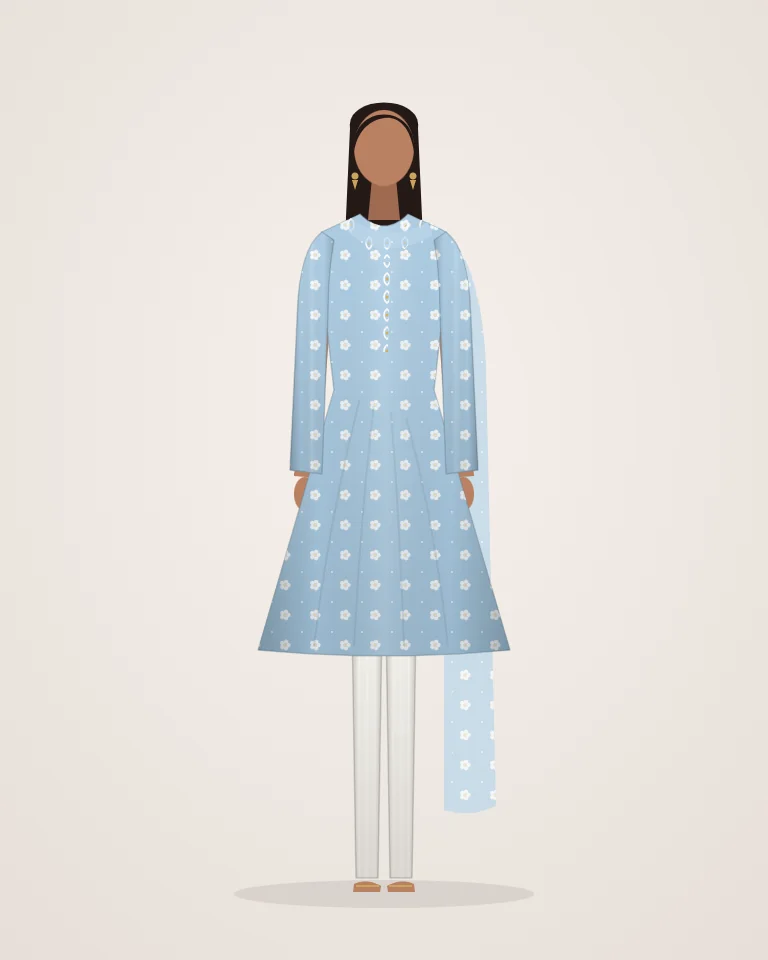
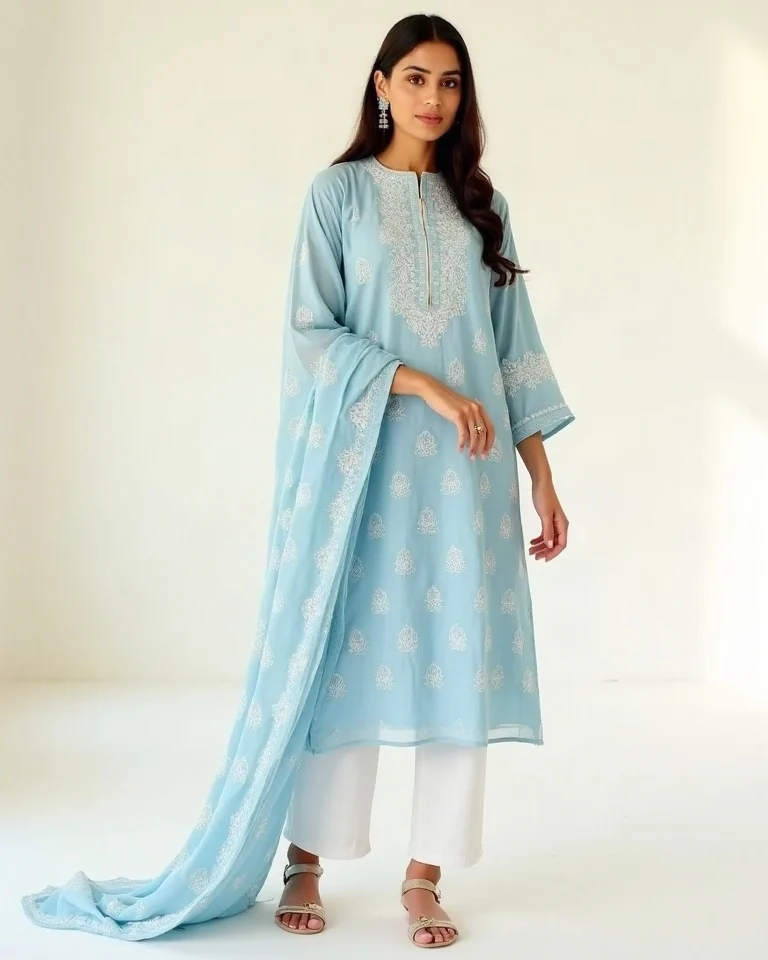
Show AI-generated model photos for all 12 products
All product images are now photorealistic AI models (FLUX.1 [dev]),
generated through the free FLUX.1-dev Hugging Face Space
(IMG_PROVIDER=space) after fal.ai and the HF router ran out of credit.
build_images.py defaults to photos again (illustrations remain with
IMG_SOURCE=art). Four product descriptions updated to match what the
photos show; footer and README wording updated.

diff --git a/data.js b/data.js
@@ -40,18 +40,18 @@ const PRODUCTS = [
     pieces: [['Shirt', 'Printed lawn, 3 m, embroidered neckline'], ['Dupatta', 'Printed lawn, 2.5 m'], ['Trouser', 'Cambric, 2.5 m']],
   },
   {
-    id: 'p04', name: 'Mustard block-print kurta set', designer: 'ranghar', category: 'pret',
+    id: 'p04', name: 'Mustard embroidered kurta set', designer: 'ranghar', category: 'pret',
     pricePkr: 5490, sizes: PRET_SIZES, fabric: 'Cotton', colour: 'Yellow', swatch: '#D9A441',
     occasion: 'Everyday', images: ['p04'],
-    description: 'A breathable cotton kurta hand block-printed in rust and indigo, with straight white trousers.',
-    pieces: [['Kurta', 'Cotton, hand block print'], ['Trouser', 'Cotton, straight']],
+    description: 'A breathable cotton kurta with multicolour thread embroidery at the placket and cuffs, with straight white trousers.',
+    pieces: [['Kurta', 'Cotton, thread-embroidered placket and cuffs'], ['Trouser', 'Cotton, straight']],
   },
   {
-    id: 'p05', name: 'Blush mirror-work sharara set', designer: 'mehrbano', category: 'formals',
+    id: 'p05', name: 'Blush embroidered sharara set', designer: 'mehrbano', category: 'formals',
     pricePkr: 24900, sizes: PRET_SIZES, fabric: 'Chiffon', colour: 'Pink', swatch: '#E6C2BD',
     occasion: 'Festive', images: ['p05'],
-    description: 'A chiffon kurta scattered with small mirrors and silver thread, over a flowing raw silk sharara.',
-    pieces: [['Kurta', 'Chiffon, lined, mirror and silver thread work'], ['Sharara', 'Raw silk'], ['Dupatta', 'Chiffon, 2.5 m']],
+    description: 'A blush chiffon kurta with silver thread embroidery at the neckline and hem, over wide raw silk sharara trousers, with a sheer chiffon dupatta.',
+    pieces: [['Kurta', 'Chiffon, lined, silver thread embroidery'], ['Sharara', 'Raw silk'], ['Dupatta', 'Chiffon, 2.5 m']],
   },
   {
     id: 'p06', name: 'Sage linen co-ord', designer: 'ranghar', category: 'pret',
@@ -68,18 +68,18 @@ const PRODUCTS = [
     pieces: [['Shirt front', 'Embroidered chiffon, 1.25 m'], ['Back and sleeves', 'Chiffon, 1.75 m'], ['Dupatta', 'Chiffon, 2.5 m, embroidered border'], ['Trouser', 'Raw silk, 2.5 m']],
   },
   {
-    id: 'p08', name: 'Ivory gota gharara set', designer: 'mehrbano', category: 'formals',
+    id: 'p08', name: 'Ivory gota kurta set', designer: 'mehrbano', category: 'formals',
     pricePkr: 64000, sizes: PRET_SIZES, fabric: 'Raw silk', colour: 'White', swatch: '#EADFC8',
     occasion: 'Wedding guest', images: ['p08'],
-    description: 'A short raw silk kurta in ivory and antique gold gota and tilla, with a full gharara and an organza dupatta.',
-    pieces: [['Kurta', 'Raw silk, gota and tilla work'], ['Gharara', 'Raw silk'], ['Dupatta', 'Organza, 2.5 m, gold border']],
+    description: 'An ivory raw silk kurta with antique gold gota bands at the hem and neckline, straight trousers and an organza dupatta scattered with gold motifs.',
+    pieces: [['Kurta', 'Raw silk, gota and tilla work'], ['Trouser', 'Raw silk, straight'], ['Dupatta', 'Organza, 2.5 m, gold motifs']],
   },
   {
-    id: 'p09', name: 'Navy printed maxi', designer: 'ranghar', category: 'pret',
+    id: 'p09', name: 'Navy embroidered maxi', designer: 'ranghar', category: 'pret',
     pricePkr: 7990, sizes: PRET_SIZES, fabric: 'Cotton silk', colour: 'Blue', swatch: '#26365A',
     occasion: 'Everyday', images: ['p09'],
-    description: 'A flowing full-sleeved maxi in cotton silk with an all-over coral and white floral print.',
-    pieces: [['Maxi', 'Cotton silk, digital print']],
+    description: 'A flowing full-sleeved navy maxi in cotton silk, with coral and white floral embroidery down the front and on the sleeves.',
+    pieces: [['Maxi', 'Cotton silk, thread embroidery']],
   },
   {
     id: 'p10', name: 'Rust embroidered khaddar three-piece', designer: 'kashi', category: 'unstitched',

diff --git a/index.html b/index.html
@@ -74,7 +74,7 @@
           <li><a href="#/shop/bridal">Bridal</a></li>
         </ul>
       </div>
-      <p class="fine">Preview mockup for feedback. Designer names are fictional, product images are illustrations drawn for this mockup, and prices, duties and delivery times are illustrative.</p>
+      <p class="fine">Preview mockup for feedback. Designer names are fictional, model photos are AI-generated, and prices, duties and delivery times are illustrative.</p>
     </div>
   </footer>
 

diff --git a/tools/gen_images.py b/tools/gen_images.py
@@ -3,6 +3,7 @@
 Provider (env IMG_PROVIDER):
   fal (default) - fal.ai directly, key in ~/.fal_key.txt
   hf            - fal.ai via the Hugging Face Inference Providers router, key in ~/.hf_key.txt
+  space         - the free FLUX.1-dev Hugging Face Space (ZeroGPU daily quota), key in ~/.hf_key.txt
 
 Usage: python tools/gen_images.py [id ...]   (no ids = every shot whose image is missing)
 The key is never printed. Stops at the first billing/auth error.
@@ -19,8 +20,10 @@ PROVIDER = os.environ.get('IMG_PROVIDER', 'fal')
 ENDPOINT = {
     'fal': 'https://fal.run/fal-ai/flux/dev',
     'hf': 'https://router.huggingface.co/fal-ai/fal-ai/flux/dev',
+    'space': 'black-forest-labs/FLUX.1-dev',
 }[PROVIDER]
 KEY = pathlib.Path.home().joinpath('.fal_key.txt' if PROVIDER == 'fal' else '.hf_key.txt').read_text().strip()
+_space = None
 AUTH = f'Key {KEY}' if PROVIDER == 'fal' else f'Bearer {KEY}'
 
 ROOT = pathlib.Path(__file__).resolve().parent.parent
@@ -31,8 +34,22 @@ STYLE = ("Professional e-commerce fashion catalogue photograph, full-length stud
 SHOTS = json.loads((ROOT / 'tools' / 'shots.json').read_text(encoding='utf-8'))
 
 
+def gen_space(shot, prompt):
+    global _space
+    from gradio_client import Client  # pip install gradio_client
+    from PIL import Image
+    _space = _space or Client(ENDPOINT, token=KEY, verbose=False)
+    res = _space.predict(prompt=prompt, seed=shot.get('seed', 7), randomize_seed=False, width=768, height=960,
+                         guidance_scale=3.5, num_inference_steps=28, api_name='/infer')
+    out = res[0] if isinstance(res, (list, tuple)) else res
+    out = out.get('path') if isinstance(out, dict) else out
+    Image.open(out).convert('RGB').save(RAW / f"{shot['id']}.jpg", quality=95)
+
+
 def gen(shot):
     prompt = shot['prompt'] if shot.get('raw_prompt') else f"{STYLE} Outfit: {shot['prompt']}"
+    if PROVIDER == 'space':
+        return gen_space(shot, prompt)
     body = json.dumps({'prompt': prompt, 'image_size': {'width': 768, 'height': 960},
                        'num_inference_steps': 28, 'guidance_scale': 3.5, 'num_images': 1,
                        'enable_safety_checker': True}).encode()
@@ -54,4 +71,8 @@ if __name__ == '__main__':
         except urllib.error.HTTPError as e:
             print(shot['id'], 'ERROR', e.code, e.read().decode()[:200], flush=True)
             if e.code in (401, 402, 403, 429):
+                sys.exit(2)
+        except Exception as e:  # Space errors (e.g. ZeroGPU quota exceeded) arrive as generic exceptions
+            print(shot['id'], 'ERROR', type(e).__name__, str(e)[:200], flush=True)
+            if 'quota' in str(e).lower():
                 sys.exit(2)

diff --git a/tools/build_images.py b/tools/build_images.py
@@ -1,6 +1,6 @@
 """Build the site's product images: 4:5 WebP at 768x960 and 400x500, plus img/manifest.js.
-Source (env IMG_SOURCE): art (default) = Claude-drawn illustrations in img/art/*.png (tools/illustrate.mjs)
-                         photos         = AI photos in img/raw/*.jpg (tools/gen_images.py)
+Source (env IMG_SOURCE): photos (default) = AI-generated model photos in img/raw/*.jpg (tools/gen_images.py)
+                         art              = Claude-drawn illustrations in img/art/*.png (tools/illustrate.mjs)
 Usage: python tools/build_images.py"""
 import os
 import pathlib
@@ -8,7 +8,7 @@ from PIL import Image, ImageOps
 
 ROOT = pathlib.Path(__file__).resolve().parent.parent
 OUT = ROOT / 'img'
-SOURCE = os.environ.get('IMG_SOURCE', 'art')
+SOURCE = os.environ.get('IMG_SOURCE', 'photos')
 SRC_DIR, PATTERN = (OUT / 'art', '*.png') if SOURCE == 'art' else (OUT / 'raw', '*.jpg')
 
 sources = sorted(SRC_DIR.glob(PATTERN))

diff --git a/README.md b/README.md
@@ -16,7 +16,7 @@ It is a static site (HTML, CSS, vanilla JavaScript): no build step, no backend. 
 ## Content notes
 
 - Designer names are fictional. Prices, duties and delivery times are illustrative.
-- Product images are fashion illustrations drawn in code by Claude (`tools/illustrate.mjs`). AI photos can be swapped back in with `IMG_SOURCE=photos`.
+- Product photos are AI-generated models (FLUX.1 [dev]); no real people or real designers' garments are shown. Claude-drawn illustrations remain available with `IMG_SOURCE=art`.
 - The page asks search engines not to index it.
 
 ## Run locally
@@ -28,21 +28,15 @@ python -m http.server 8765
 
 ## Regenerate product images
 
-Illustrations (default): each product's look is described in `LOOKS` inside `tools/illustrate.mjs`.
+AI model photos (default): each shot is described in `tools/shots.json`.
 
 ```bash
-npm install
-node tools/illustrate.mjs            # draws img/art/*.svg and *.png
-python tools/build_images.py         # converts to WebP and updates img/manifest.js
+IMG_PROVIDER=space python tools/gen_images.py   # free FLUX.1-dev Hugging Face Space (daily quota; ~/.hf_key.txt)
+python tools/gen_images.py                      # or fal.ai directly (~/.fal_key.txt)
+python tools/build_images.py                    # converts img/raw/*.jpg to WebP and updates img/manifest.js
 ```
 
-AI photos (optional; shots in `tools/shots.json`):
-
-```bash
-python tools/gen_images.py            # generates any missing shots (fal.ai key in ~/.fal_key.txt)
-IMG_PROVIDER=hf python tools/gen_images.py   # or via the Hugging Face router (~/.hf_key.txt)
-IMG_SOURCE=photos python tools/build_images.py   # converts img/raw/*.jpg to WebP
-```
+Illustrations (alternative): `node tools/illustrate.mjs && IMG_SOURCE=art python tools/build_images.py`.
 
 ## End-to-end tests
 
